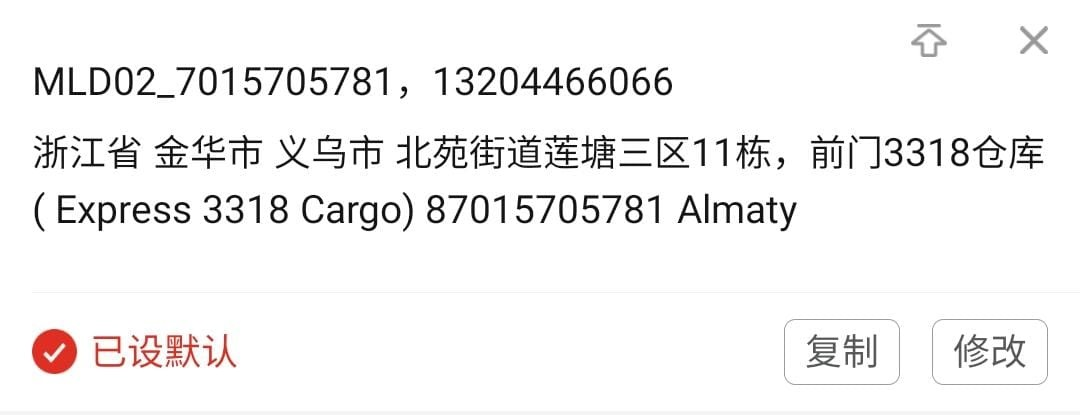
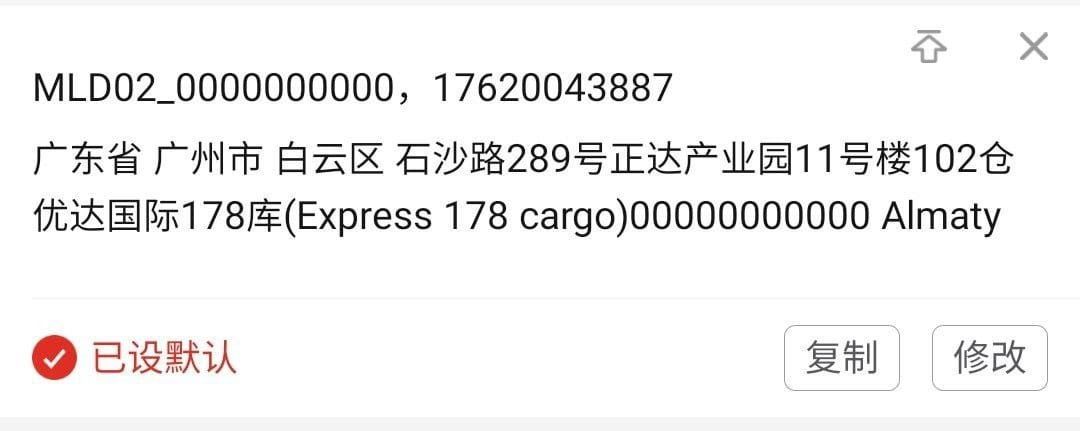
new china

diff --git a/resources/views/layouts/navigation.blade.php b/resources/views/layouts/navigation.blade.php
@@ -62,7 +62,7 @@
 
                         <div class="bg-[#fab4b4] p-2 mt-4 mb-4">
                             <p><span>Образец</span></p>
-                            <img src="{{asset('images/china.jpg')}}" alt="China">
+                            <img src="{{asset('images/newchina.jpg')}}" alt="China">
                         </div>
                         <hr class="h-px mb-4 bg-gray-200 border-0">
 
